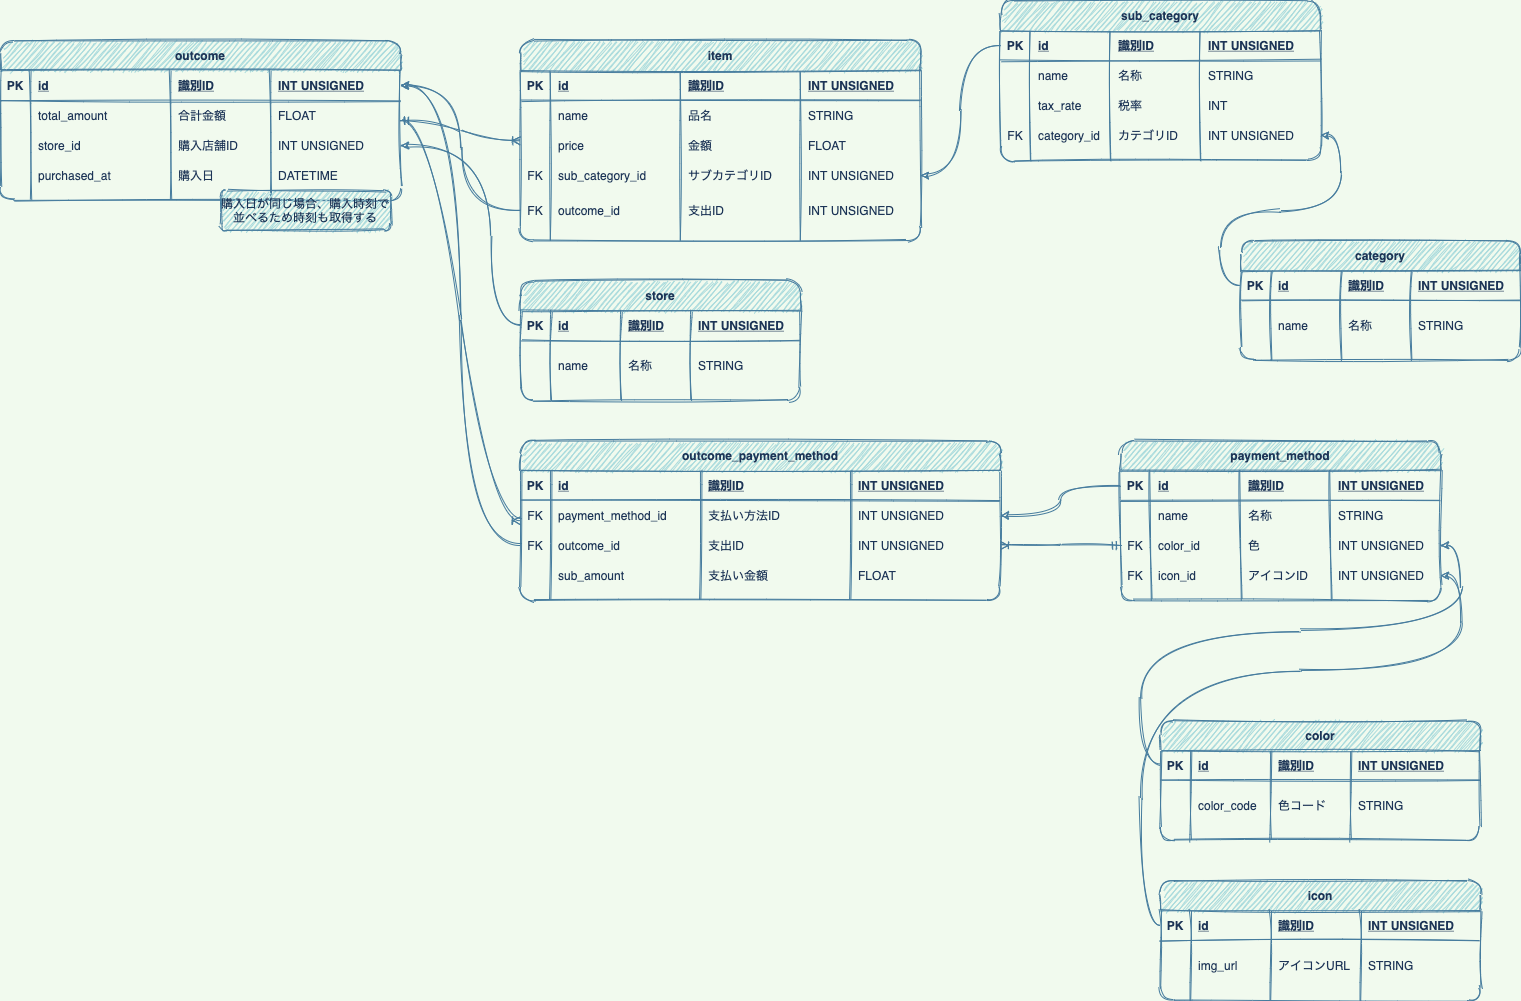
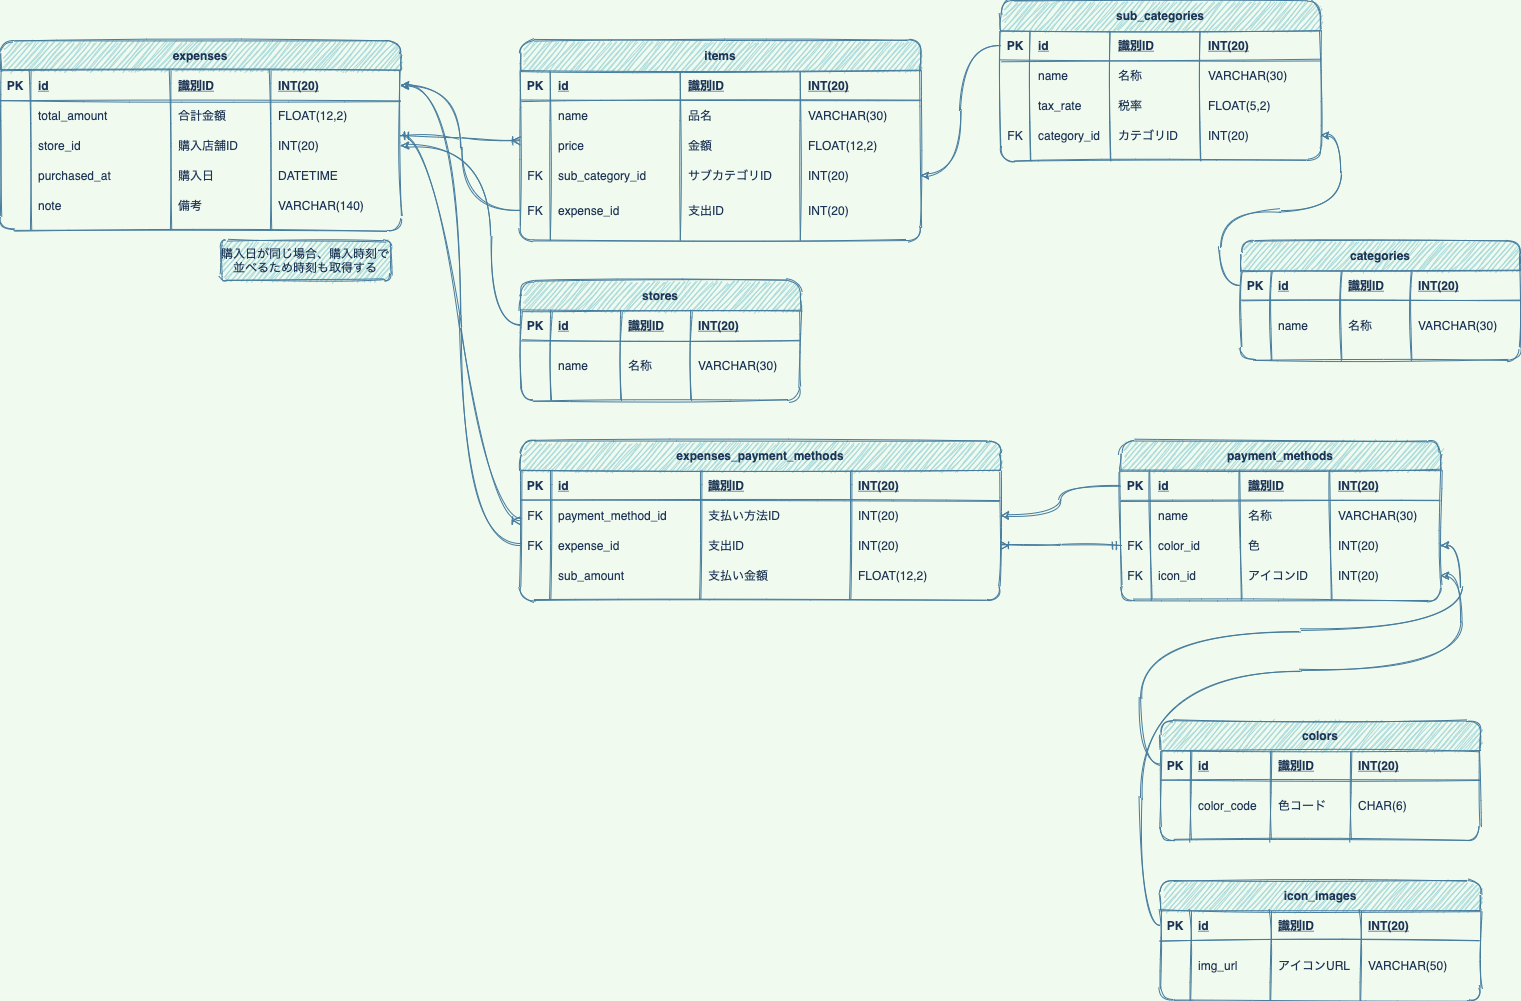
DB用dockerコンテナ追加、ER図&画面遷移図修正

diff --git a/AccountBookForMe/app/src/main/java/com/example/accountbookforme/MainActivity.kt b/AccountBookForMe/app/src/main/java/com/example/accountbookforme/MainActivity.kt
@@ -8,6 +8,9 @@ import androidx.navigation.ui.AppBarConfiguration
 import androidx.navigation.ui.setupActionBarWithNavController
 import androidx.navigation.ui.setupWithNavController
 
+/**
+ * メインの5つのタブを表示するActivity
+ */
 class MainActivity : AppCompatActivity() {
 
     override fun onCreate(savedInstanceState: Bundle?) {
